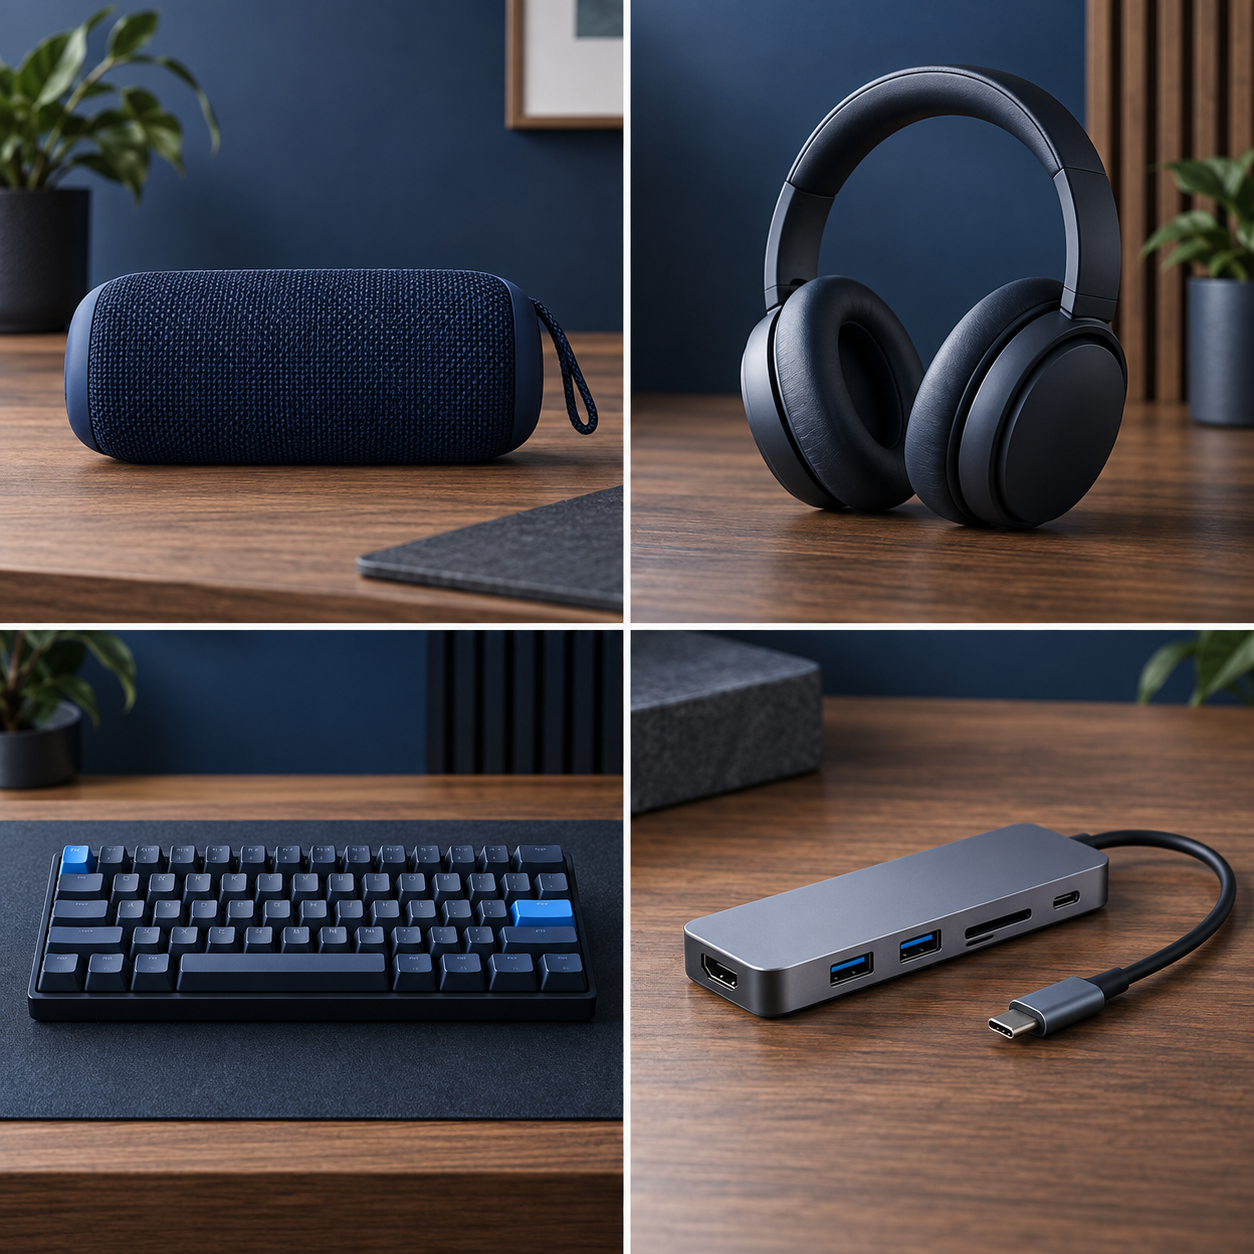
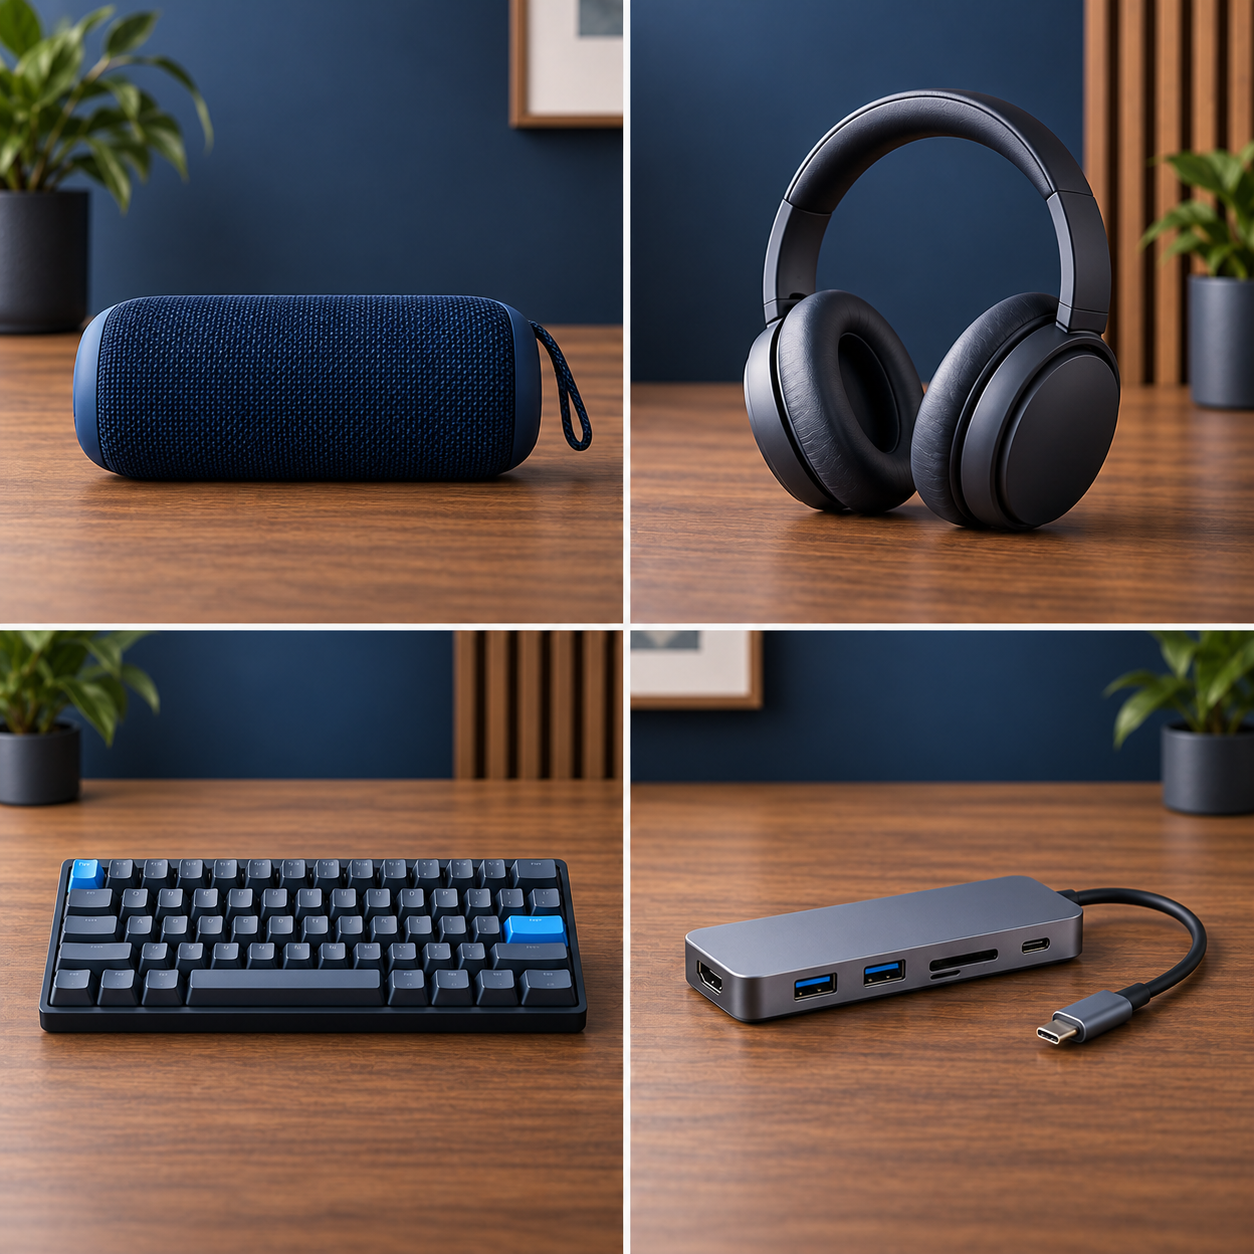
fix: frame catalog artwork without clipping

diff --git a/app/src/main/java/com/storemesh/android/ShopScreen.kt b/app/src/main/java/com/storemesh/android/ShopScreen.kt
@@ -55,7 +55,7 @@ private fun artworkAsset(product: Product): String = when {
     else -> "halo-desk-lamp"
 }
 
-@Composable private fun ProductArtwork(product: Product, height: androidx.compose.ui.unit.Dp) { val asset = artworkAsset(product); val imagePath = "file:///android_asset/catalog/$asset.png"; var failed by remember(asset) { mutableStateOf(false) }; Box(Modifier.fillMaxWidth().height(height).clip(RoundedCornerShape(14.dp)).background(Color(0xFFE8F0FF)), contentAlignment = Alignment.Center) { AsyncImage(model = imagePath, contentDescription = product.name, modifier = Modifier.fillMaxSize(), contentScale = androidx.compose.ui.layout.ContentScale.Crop, onError = { failed = true }); if (failed) Icon(Icons.Default.Inventory2, null, tint = MaterialTheme.colorScheme.primary, modifier = Modifier.size(46.dp)) } }
+@Composable private fun ProductArtwork(product: Product, height: androidx.compose.ui.unit.Dp) { val asset = artworkAsset(product); val imagePath = "file:///android_asset/catalog/$asset.png"; var failed by remember(asset) { mutableStateOf(false) }; Box(Modifier.fillMaxWidth().height(height).clip(RoundedCornerShape(14.dp)).background(Color(0xFFE8F0FF)), contentAlignment = Alignment.Center) { AsyncImage(model = imagePath, contentDescription = product.name, modifier = Modifier.fillMaxSize().padding(6.dp), contentScale = androidx.compose.ui.layout.ContentScale.Fit, onError = { failed = true }); if (failed) Icon(Icons.Default.Inventory2, null, tint = MaterialTheme.colorScheme.primary, modifier = Modifier.size(46.dp)) } }
 @OptIn(ExperimentalMaterial3Api::class)
 @Composable private fun ProductDetailsSheet(product: Product, onAdd: () -> Unit, onDismiss: () -> Unit) { ModalBottomSheet(onDismissRequest = onDismiss) { Column(Modifier.padding(24.dp).padding(bottom = 24.dp)) { ProductArtwork(product, 220.dp); Text(product.name, style = MaterialTheme.typography.headlineSmall, fontWeight = FontWeight.Bold, modifier = Modifier.padding(top = 18.dp)); Text(product.formattedPrice(), style = MaterialTheme.typography.titleLarge, color = Color(0xFF087443), fontWeight = FontWeight.Bold); Text(product.description, modifier = Modifier.padding(vertical = 12.dp), color = MaterialTheme.colorScheme.onSurfaceVariant); Button(onClick = onAdd, modifier = Modifier.fillMaxWidth()) { Text("Add to cart") } } } }
 @Composable private fun ProfileScreen(onLogout: () -> Unit, modifier: Modifier) { Column(modifier.fillMaxSize().padding(20.dp)) { Text("Profile", style = MaterialTheme.typography.headlineMedium, fontWeight = FontWeight.Bold); Card(Modifier.fillMaxWidth().padding(top = 16.dp)) { Column(Modifier.padding(18.dp)) { Icon(Icons.Default.AccountCircle, null, modifier = Modifier.size(56.dp), tint = MaterialTheme.colorScheme.primary); Text("Customer account", style = MaterialTheme.typography.titleLarge, fontWeight = FontWeight.Bold); Text("Manage your account, addresses, and payment methods", color = MaterialTheme.colorScheme.onSurfaceVariant) } }; listOf("My details", "Addresses", "Payment methods", "Notifications", "Help & support", "Settings").forEach { label -> ListItem(headlineContent = { Text(label) }, leadingContent = { Icon(Icons.Default.ChevronRight, null) }) }; TextButton(onClick = onLogout) { Text("Sign out", color = MaterialTheme.colorScheme.error) } } }
